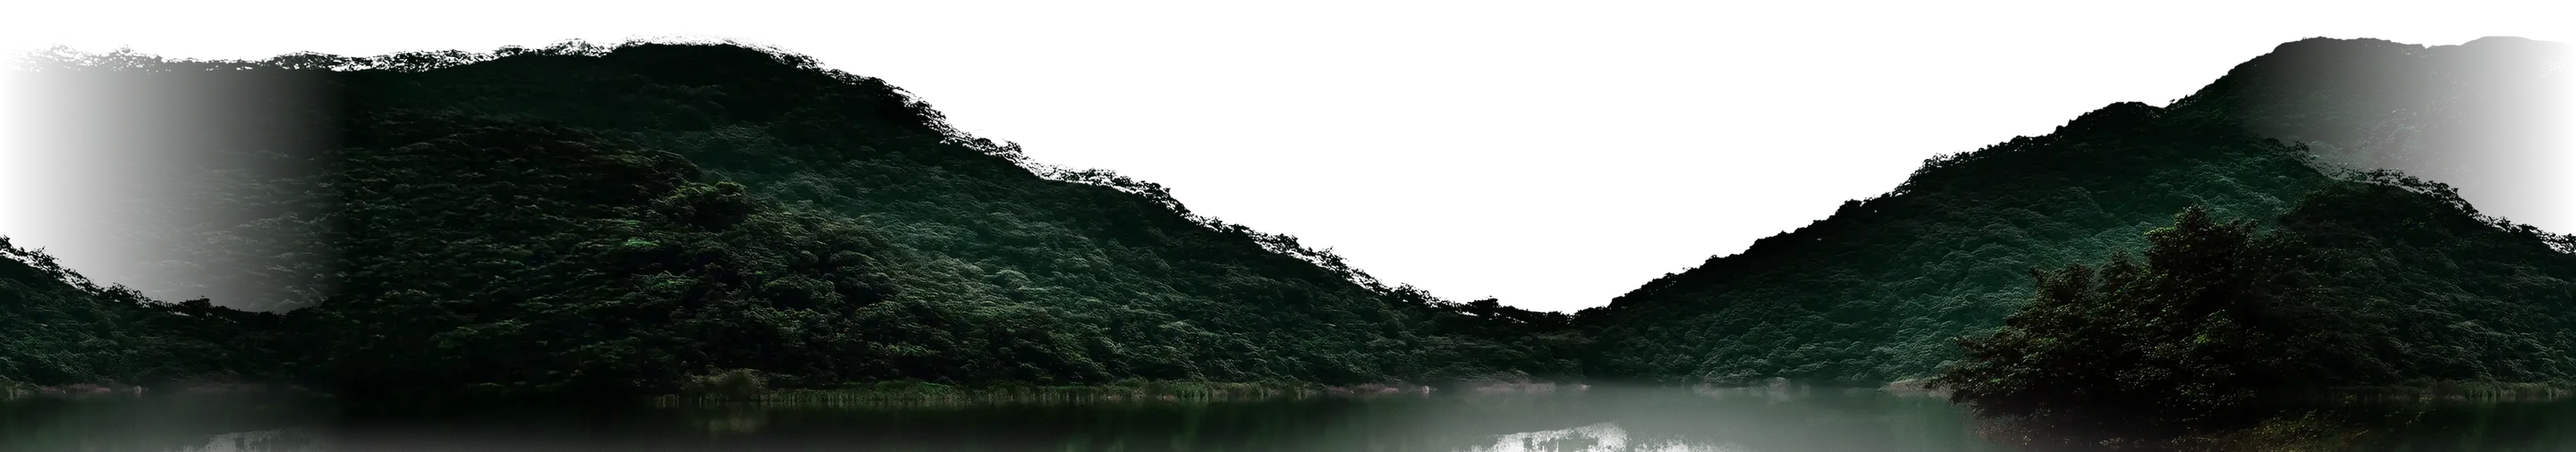
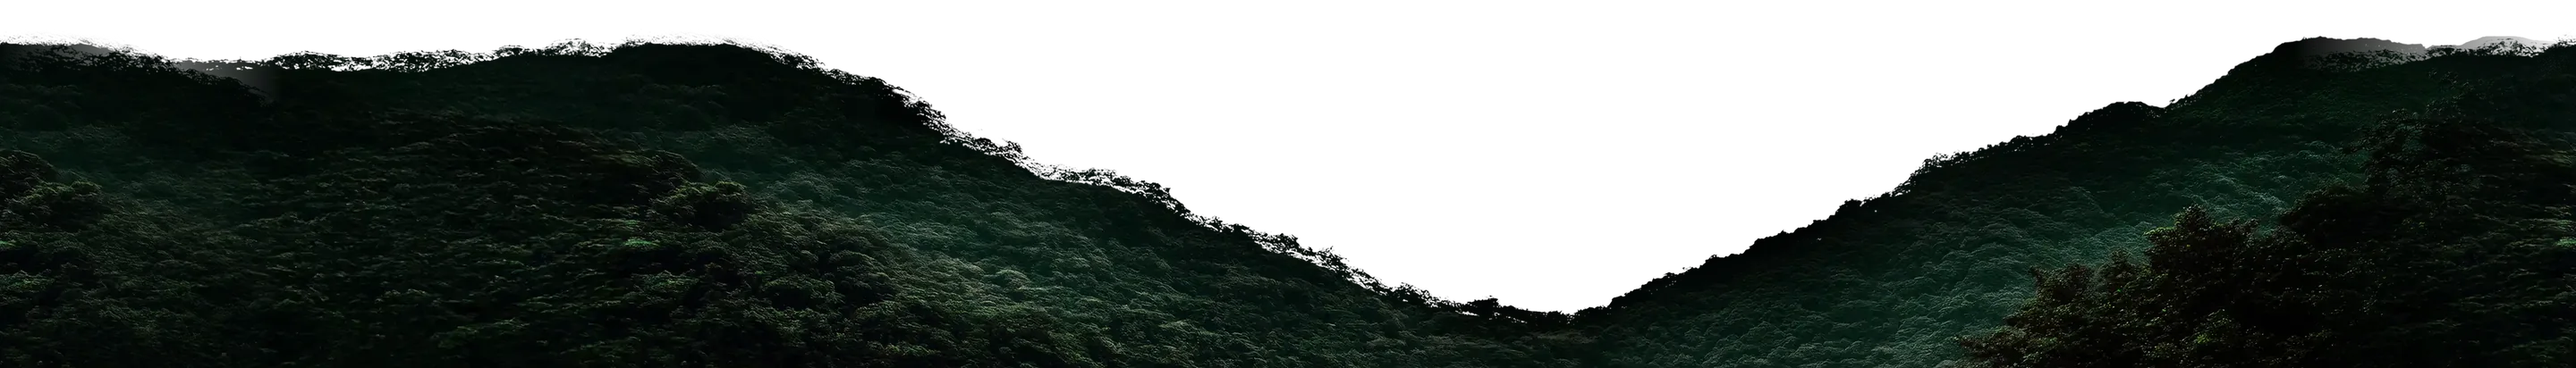
Two desktop boughs back, clean hills tile, morph holds the mark's size
- The FAQ act's two mirrored boughs are restored on every width above the
  phone breakpoint - removing the right one everywhere was wrong. The
  single full-width branch (with the parked ghost keeping the simulation's
  pair intact) now applies to phones only, per the design's mobile frame.
- The hills tile is rebuilt from the source plate: cropped ABOVE the
  waterline, so no parallax band carries the lake any more - the glassy
  streaks that showed through nearer bands' valleys are gone - and the
  seam blend is rolled to land on dense high forest instead of the valley,
  so no water ghosts over trees at the tile joint. Bottom row fully
  opaque, 146KB.
- The logo-to-card transition no longer shrinks mid-unfold: the wedge
  morph (3s) now finishes BEFORE the flight to the fan begins (24.8+),
  so each triangle keeps the mark's exact size until it is fully a card,
  and any resize happens on the way down to the hand. On phones - where
  the fan card is far smaller than the mark - this is the difference
  between triangles visibly collapsing mid-morph and a clean deal.
  Verified: width held to the pixel through the whole morph on both
  breakpoints, card complete before the first pixel of resize.

diff --git a/src/journey/Journey.jsx b/src/journey/Journey.jsx
@@ -289,14 +289,19 @@ export default function Journey({ onFaqToggle, openFaq, petalsRef }) {
         );
       });
 
-      /* E — each ray becomes a card, then the hand spreads out below. */
+      /* E — each ray becomes a card AT THE MARK'S OWN SIZE, and only then
+         flies down to the fan. The morph and the flight used to overlap,
+         and on a phone — where a fan card is far smaller than the mark —
+         the still-morphing triangles visibly shrank mid-unfold. Now the
+         triangle keeps the logo's scale until it is fully a card, and any
+         resize happens on the way to the hand. */
       cards.forEach((card, index) => {
         tl.to(
           card,
           {
             clipPath: CARD_CLIP,
             borderRadius: 16,
-            duration: 4,
+            duration: 3,
             ease: 'power2.inOut',
           },
           21.6 + index * 0.35,
@@ -309,15 +314,15 @@ export default function Journey({ onFaqToggle, openFaq, petalsRef }) {
             rotation: () => layout().fan[index].rotate,
             xPercent: 0,
             yPercent: 0,
-            duration: 6,
+            duration: 5,
             ease: 'power2.inOut',
           },
-          23.4 + index * 0.35,
+          24.8 + index * 0.35,
         );
       });
 
-      tl.to(q('.card__wedge'), { autoAlpha: 0, duration: 2.6 }, 24)
-        .to(q('.card__face'), { autoAlpha: 1, duration: 2.4, stagger: 0.2 }, 26)
+      tl.to(q('.card__wedge'), { autoAlpha: 0, duration: 2.6 }, 25)
+        .to(q('.card__face'), { autoAlpha: 1, duration: 2.4, stagger: 0.2 }, 26.5)
         ;
 
       /* D/E/F — each chapter lifts its card out of the fan, holds, returns. */

diff --git a/src/journey/Branches.jsx b/src/journey/Branches.jsx
@@ -1,25 +1,21 @@
 import { useEffect, useState } from 'react';
 
 /*
- * The blossom bough across the top of the FAQ act.
+ * The blossom boughs across the top of the FAQ act.
  *
- * The design hangs the whole act off ONE branch, entering from the left —
- * there is no right-hand bough any more, at any width. The plate is the
- * supplied artwork (1827×861 bitmap), and where each rope ties on is read
- * from `limbCurve.js`.
+ * On wide stages there are two, as there always were: the supplied plate on
+ * the left and the same bitmap mirrored on the right, one over each column
+ * of the ladder. Where a rope ties on is read from `limbCurve.js`.
  *
- * The second entry is the GHOST: an invisible, flattened box raised above
- * the frame that the right-hand column hangs from, so its ropes simply run
- * up off the top of the stage the way the design draws them. The ghost
- * still swings, carries load and is towed off in the simulation — only its
- * artwork is gone. On phones the visible branch spans the whole top and
- * carries every rope itself, and the ghost is parked where it covers
- * nothing.
+ * Phones follow the design's mobile frame instead: ONE branch spanning the
+ * whole top, carrying both ropes of the single column. The second entry
+ * there is a GHOST — an invisible box parked past the frame's edge so it
+ * covers no rope and simply keeps the simulation's pair intact.
  */
 
 const WIDE = [
-  { side: 'left', left: -3, top: -7, width: 53 },
-  { side: 'right', left: 47, top: -26, width: 60, ghost: true },
+  { side: 'left', left: -8, top: -14, width: 60 },
+  { side: 'right', left: 48, top: -16, width: 60 },
 ];
 
 const NARROW = [

diff --git a/src/journey/journey.css b/src/journey/journey.css
@@ -783,10 +783,16 @@
   filter: drop-shadow(0 6px 14px rgba(0, 0, 0, 0.55));
 }
 
-/* The ghost bough: an invisible box the right-hand ladder hangs from,
-   raised above the frame so its knots never show — the ropes just run off
-   the top of the stage. Flattened on purpose: its height only places the
-   knots, and a plate-shaped box would push them back on screen. */
+/* One plate serves both sides; the supplied pair were the same bitmap, one
+   of them simply mirrored. */
+.bough--right img {
+  transform: scaleX(-1);
+}
+
+/* The phone layout's ghost bough: an invisible box parked past the frame's
+   edge, keeping the simulation's pair intact while the single branch
+   carries every rope. Flattened — its height only places its (unused)
+   knots. */
 .bough--ghost {
   aspect-ratio: 1827 / 220;
 }
